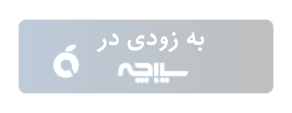
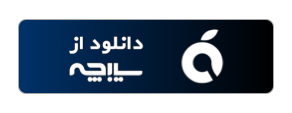
sibche added

diff --git a/index.html b/index.html
@@ -93,7 +93,7 @@
                             </div>
 
                             <div class="col-xs-6 col-lg-6 text-center">
-                                <a href="/" download>
+                                <a href="https://sibche.com/applications/339333" download>
                                     <img width="100%"  src="assets/imgs/sibche-new.png" alt="" />
                                 </a>
                             </div>
